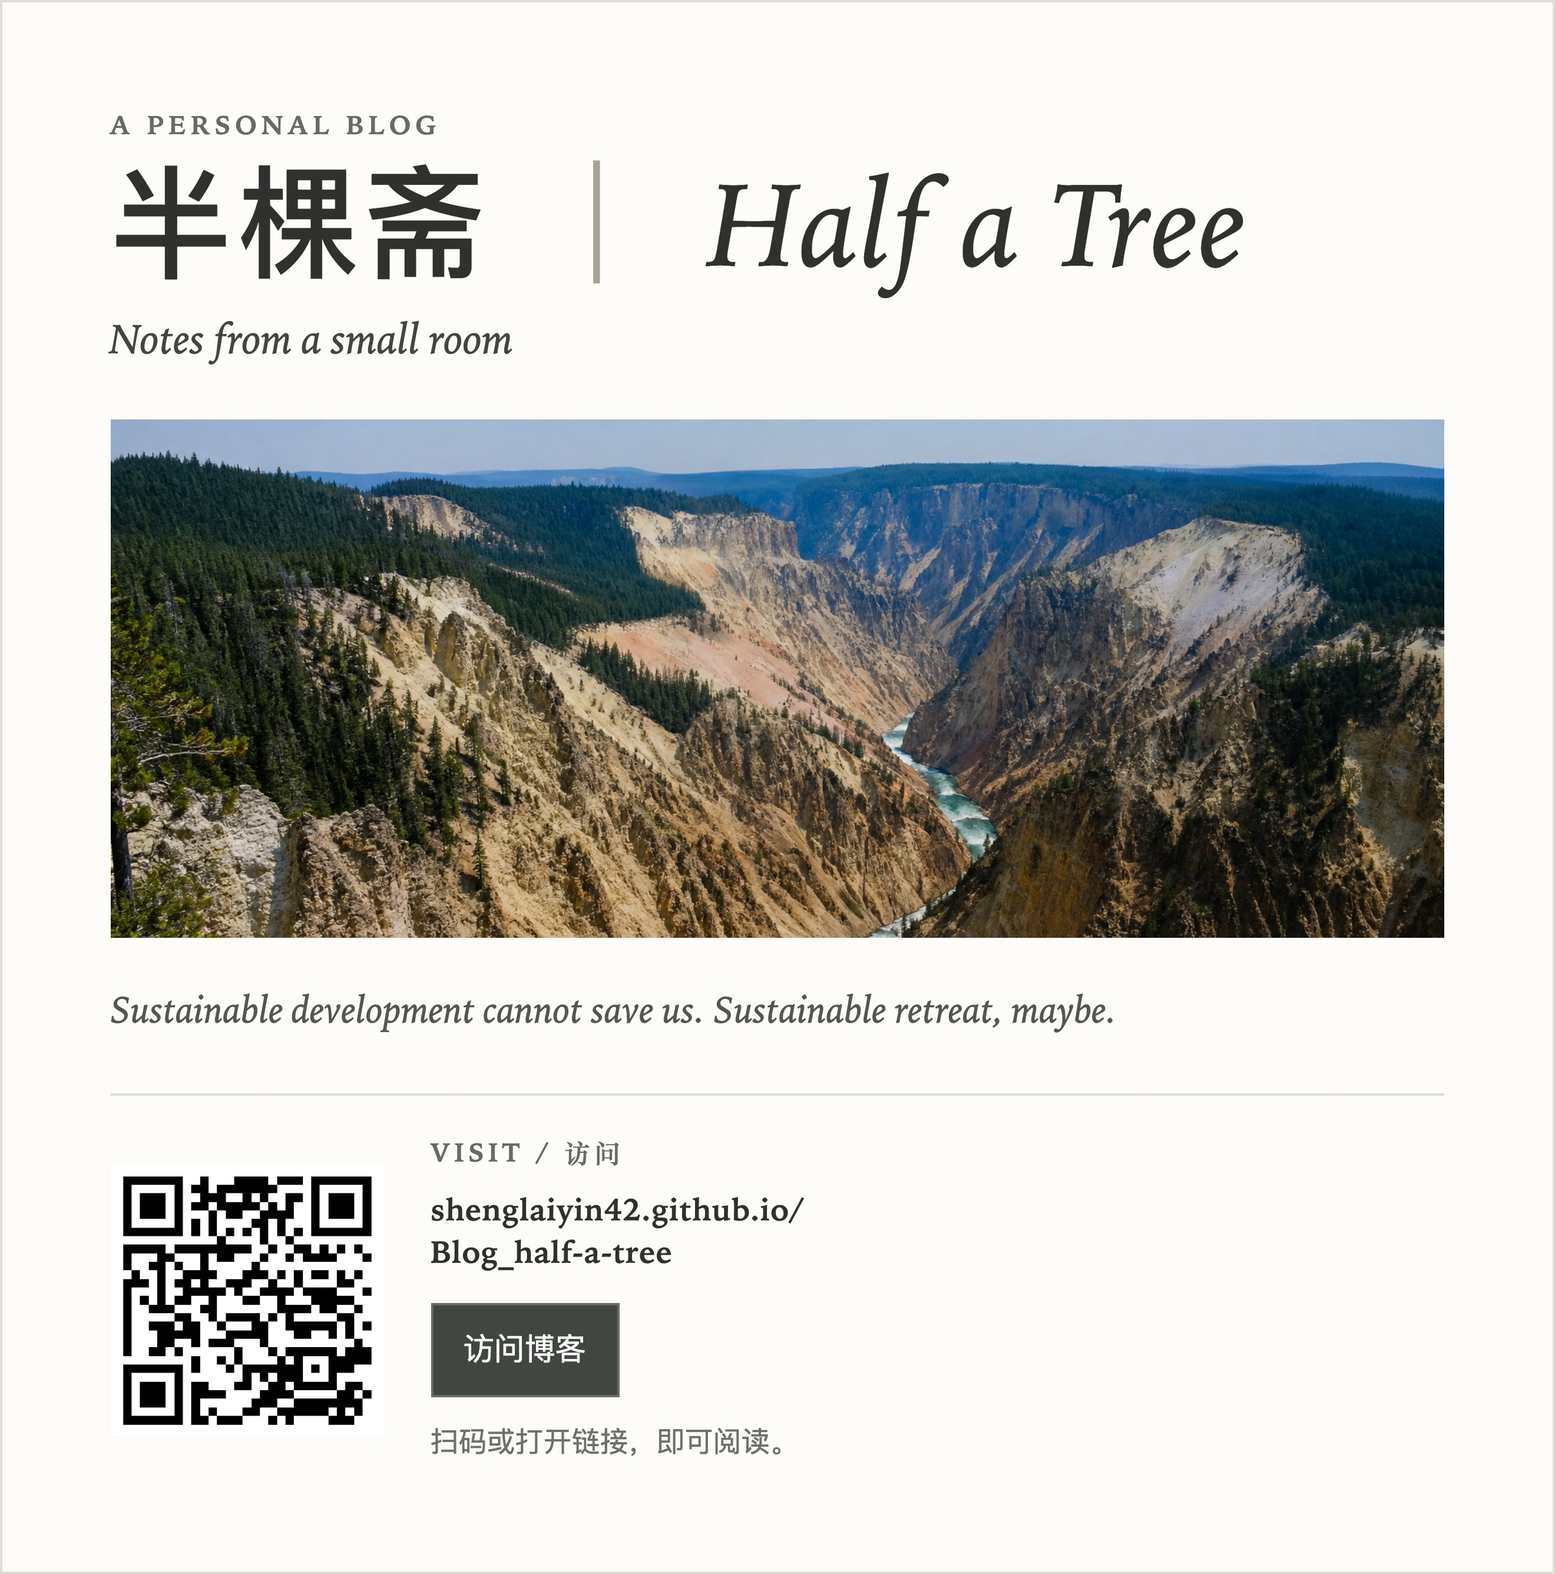
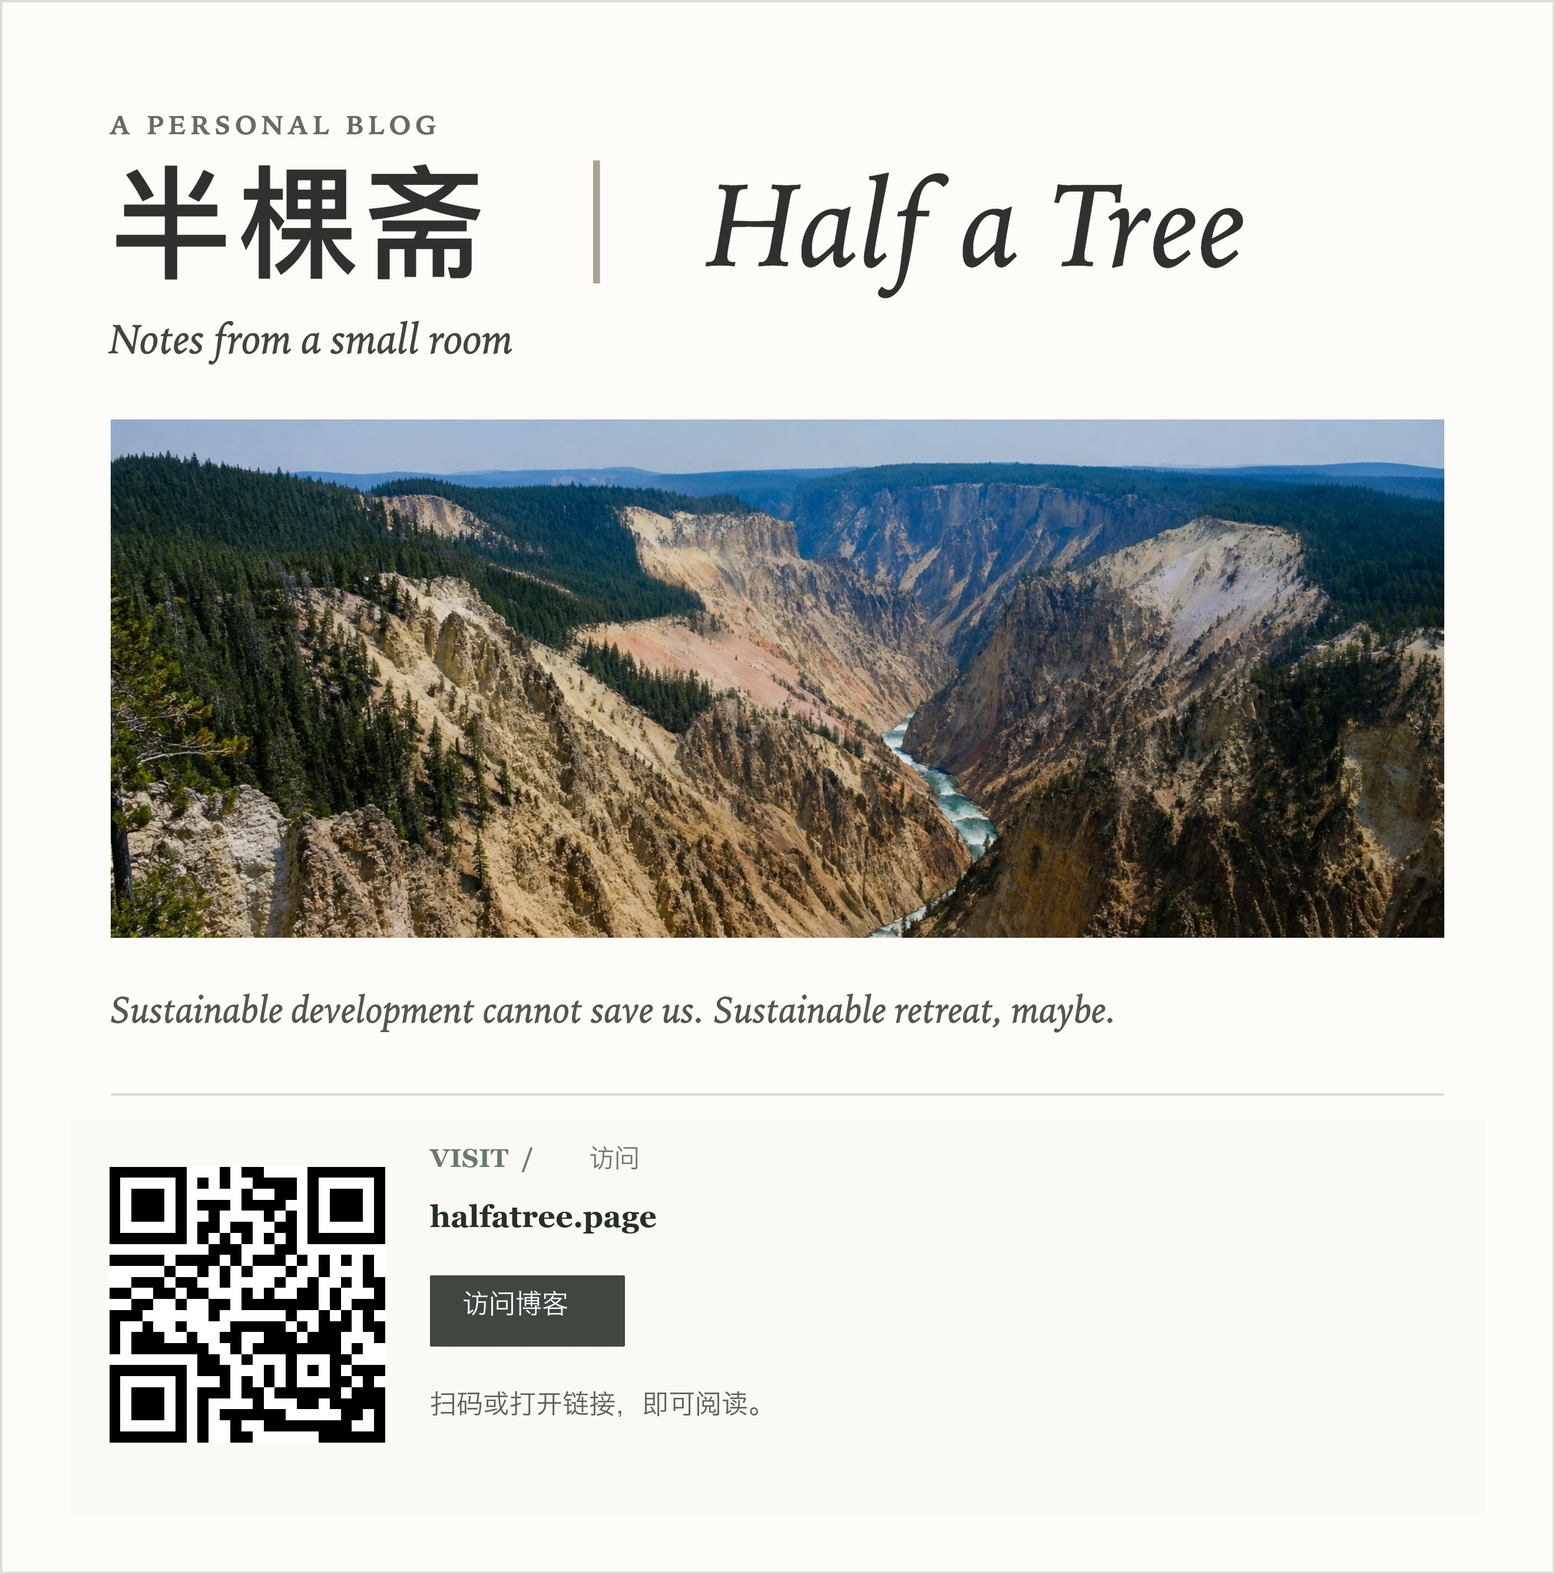
切换博客公开地址至 halfatree.page

Changed region(s): [[0.0621, 0.7144, 0.2485, 0.9319], [0.2795, 0.7144, 0.497, 0.9319]]

diff --git a/articles/a-suffocating-self-exoneration.html b/articles/a-suffocating-self-exoneration.html
@@ -9,17 +9,17 @@
     <meta property="og:site_name" content="半棵斋｜Half a Tree" />
     <meta property="og:title" content="一场让人愤怒且窒息的“自我洗白”-《万物只是自然生长》｜半棵斋" />
     <meta property="og:description" content="读李翊云的《万物只是自然生长》，我的心情从一开始的不安，到最后变成了极度的反感和恶心。作为一个母亲，两个孩子相继选择相同的方式自杀，这难道不是家庭出了大问题吗？可身为作家的母亲在书里仅仅反思了她自己的" />
-    <meta property="og:url" content="https://shenglaiyin42.github.io/Blog_half-a-tree/articles/a-suffocating-self-exoneration.html" />
-    <meta property="og:image" content="https://shenglaiyin42.github.io/Blog_half-a-tree/public/media/share/a-suffocating-self-exoneration.jpg" />
+    <meta property="og:url" content="https://halfatree.page/articles/a-suffocating-self-exoneration.html" />
+    <meta property="og:image" content="https://halfatree.page/public/media/share/a-suffocating-self-exoneration.jpg?v=halfatree-page-v1" />
     <meta property="og:image:type" content="image/jpeg" />
     <meta property="og:image:width" content="1200" />
     <meta property="og:image:height" content="630" />
     <meta name="twitter:card" content="summary_large_image" />
     <meta name="twitter:title" content="一场让人愤怒且窒息的“自我洗白”-《万物只是自然生长》｜半棵斋" />
     <meta name="twitter:description" content="读李翊云的《万物只是自然生长》，我的心情从一开始的不安，到最后变成了极度的反感和恶心。作为一个母亲，两个孩子相继选择相同的方式自杀，这难道不是家庭出了大问题吗？可身为作家的母亲在书里仅仅反思了她自己的" />
-    <meta name="twitter:image" content="https://shenglaiyin42.github.io/Blog_half-a-tree/public/media/share/a-suffocating-self-exoneration.jpg" />
+    <meta name="twitter:image" content="https://halfatree.page/public/media/share/a-suffocating-self-exoneration.jpg?v=halfatree-page-v1" />
     <!-- 分享卡片元数据结束 -->
-    <link rel="canonical" href="https://shenglaiyin42.github.io/Blog_half-a-tree/articles/a-suffocating-self-exoneration.html" />
+    <link rel="canonical" href="https://halfatree.page/articles/a-suffocating-self-exoneration.html" />
     <title>一场让人愤怒且窒息的“自我洗白”-《万物只是自然生长》｜半棵斋</title>
     <link rel="alternate" type="application/rss+xml" title="半棵斋 RSS" href="../rss.xml" />
     <link rel="stylesheet" href="../styles.css?v=moments-poster-v2" />
@@ -29,25 +29,25 @@
       <div class="hero" role="img" aria-label="峡谷、远山与河流"></div>
       <div class="identity wrap">
         <p class="eyebrow">A personal blog</p>
-        <h1><a class="site-title" href="https://shenglaiyin42.github.io/Blog_half-a-tree/" aria-label="返回首页：半棵斋 Half a Tree">半棵斋 <span>｜</span> <em>Half a Tree</em></a></h1>
+        <h1><a class="site-title" href="https://halfatree.page/" aria-label="返回首页：半棵斋 Half a Tree">半棵斋 <span>｜</span> <em>Half a Tree</em></a></h1>
         <p class="motto">Sustainable development cannot save us. Sustainable retreat, maybe.</p>
       </div>
       <div class="nav-shell">
         <nav class="wrap site-nav" aria-label="主导航">
-          <a class="rss-link" href="https://shenglaiyin42.github.io/Blog_half-a-tree/rss.xml" title="订阅 RSS" aria-label="订阅 RSS">
+          <a class="rss-link" href="https://halfatree.page/rss.xml" title="订阅 RSS" aria-label="订阅 RSS">
             <svg viewBox="0 0 24 24" aria-hidden="true"><circle cx="6" cy="18" r="2.1"></circle><path d="M4 10.1a9.9 9.9 0 0 1 9.9 9.9M4 4a16 16 0 0 1 16 16"></path></svg>
             <span>RSS / 订阅</span>
           </a>
           <div class="nav-pages">
-            <a class="nav-link" href="https://shenglaiyin42.github.io/Blog_half-a-tree/?section=essays">文章 <span>/ Essays</span></a>
-            <a class="nav-link is-active" href="https://shenglaiyin42.github.io/Blog_half-a-tree/?section=arts">艺文 <span>/ Arts &amp; Culture</span></a>
+            <a class="nav-link" href="https://halfatree.page/?section=essays">文章 <span>/ Essays</span></a>
+            <a class="nav-link is-active" href="https://halfatree.page/?section=arts">艺文 <span>/ Arts &amp; Culture</span></a>
           </div>
         </nav>
       </div>
     </header>
 
     <main class="article-shell">
-      <a class="article-back" href="https://shenglaiyin42.github.io/Blog_half-a-tree/?section=arts">← 返回艺文</a>
+      <a class="article-back" href="https://halfatree.page/?section=arts">← 返回艺文</a>
       <article>
         <header class="article-header">
           <p class="article-meta"><span class="post-section">艺文</span><time datetime="2026-08-15">2026年8月15日</time></p>
@@ -73,6 +73,6 @@
       <p>半棵斋｜Half a Tree</p>
       <p>Notes from a small room</p>
     </footer>
-    <script src="../article-share.js?v=moments-poster-v4"></script>
+    <script src="../article-share.js?v=moments-poster-v5"></script>
   </body>
 </html>

diff --git a/articles/heroes-and-the-decline-of-civilization.html b/articles/heroes-and-the-decline-of-civilization.html
@@ -9,17 +9,17 @@
     <meta property="og:site_name" content="半棵斋｜Half a Tree" />
     <meta property="og:title" content="所谓英雄，或许正是文明衰落的开始-《奥德赛》｜半棵斋" />
     <meta property="og:description" content="诺兰的《奥德赛》不只是一个英雄历经艰险、终于回家的故事。它更像是一个关于文明衰落的寓言：当人与人之间最基本的原则被不断打破，暴力又以英雄之名被传颂，毁灭最终也会被下一代继承。" />
-    <meta property="og:url" content="https://shenglaiyin42.github.io/Blog_half-a-tree/articles/heroes-and-the-decline-of-civilization.html" />
-    <meta property="og:image" content="https://shenglaiyin42.github.io/Blog_half-a-tree/public/media/share/heroes-and-the-decline-of-civilization.jpg" />
+    <meta property="og:url" content="https://halfatree.page/articles/heroes-and-the-decline-of-civilization.html" />
+    <meta property="og:image" content="https://halfatree.page/public/media/share/heroes-and-the-decline-of-civilization.jpg?v=halfatree-page-v1" />
     <meta property="og:image:type" content="image/jpeg" />
     <meta property="og:image:width" content="1200" />
     <meta property="og:image:height" content="630" />
     <meta name="twitter:card" content="summary_large_image" />
     <meta name="twitter:title" content="所谓英雄，或许正是文明衰落的开始-《奥德赛》｜半棵斋" />
     <meta name="twitter:description" content="诺兰的《奥德赛》不只是一个英雄历经艰险、终于回家的故事。它更像是一个关于文明衰落的寓言：当人与人之间最基本的原则被不断打破，暴力又以英雄之名被传颂，毁灭最终也会被下一代继承。" />
-    <meta name="twitter:image" content="https://shenglaiyin42.github.io/Blog_half-a-tree/public/media/share/heroes-and-the-decline-of-civilization.jpg" />
+    <meta name="twitter:image" content="https://halfatree.page/public/media/share/heroes-and-the-decline-of-civilization.jpg?v=halfatree-page-v1" />
     <!-- 分享卡片元数据结束 -->
-    <link rel="canonical" href="https://shenglaiyin42.github.io/Blog_half-a-tree/articles/heroes-and-the-decline-of-civilization.html" />
+    <link rel="canonical" href="https://halfatree.page/articles/heroes-and-the-decline-of-civilization.html" />
     <title>所谓英雄，或许正是文明衰落的开始-《奥德赛》｜半棵斋</title>
     <link rel="alternate" type="application/rss+xml" title="半棵斋 RSS" href="../rss.xml" />
     <link rel="stylesheet" href="../styles.css?v=moments-poster-v2" />
@@ -29,22 +29,22 @@
       <div class="hero" role="img" aria-label="峡谷、远山与河流"></div>
       <div class="identity wrap">
         <p class="eyebrow">A personal blog</p>
-        <h1><a class="site-title" href="https://shenglaiyin42.github.io/Blog_half-a-tree/" aria-label="返回首页：半棵斋 Half a Tree">半棵斋 <span>｜</span> <em>Half a Tree</em></a></h1>
+        <h1><a class="site-title" href="https://halfatree.page/" aria-label="返回首页：半棵斋 Half a Tree">半棵斋 <span>｜</span> <em>Half a Tree</em></a></h1>
         <p class="motto">Sustainable development cannot save us. Sustainable retreat, maybe.</p>
       </div>
       <div class="nav-shell">
         <nav class="wrap site-nav" aria-label="主导航">
-          <a class="rss-link" href="https://shenglaiyin42.github.io/Blog_half-a-tree/rss.xml" title="订阅 RSS" aria-label="订阅 RSS"><span>RSS / 订阅</span></a>
+          <a class="rss-link" href="https://halfatree.page/rss.xml" title="订阅 RSS" aria-label="订阅 RSS"><span>RSS / 订阅</span></a>
           <div class="nav-pages">
-            <a class="nav-link" href="https://shenglaiyin42.github.io/Blog_half-a-tree/?section=essays">文章 <span>/ Essays</span></a>
-            <a class="nav-link" href="https://shenglaiyin42.github.io/Blog_half-a-tree/?section=arts">艺文 <span>/ Arts &amp; Culture</span></a>
+            <a class="nav-link" href="https://halfatree.page/?section=essays">文章 <span>/ Essays</span></a>
+            <a class="nav-link" href="https://halfatree.page/?section=arts">艺文 <span>/ Arts &amp; Culture</span></a>
           </div>
         </nav>
       </div>
     </header>
 
     <main class="article-shell">
-      <a class="article-back" href="https://shenglaiyin42.github.io/Blog_half-a-tree/?section=arts">← 返回艺文</a>
+      <a class="article-back" href="https://halfatree.page/?section=arts">← 返回艺文</a>
       <article>
         <header class="article-header">
           <p class="article-meta"><span class="post-section">艺文</span><time datetime="2026-08-16">2026年8月16日</time></p>
@@ -87,6 +87,6 @@
       <p>半棵斋｜Half a Tree</p>
       <p>Notes from a small room</p>
     </footer>
-    <script src="../article-share.js?v=moments-poster-v4"></script>
+    <script src="../article-share.js?v=moments-poster-v5"></script>
   </body>
 </html>

diff --git a/templates/article-page.html b/templates/article-page.html
@@ -15,22 +15,22 @@
       <div class="hero" role="img" aria-label="峡谷、远山与河流"></div>
       <div class="identity wrap">
         <p class="eyebrow">A personal blog</p>
-        <h1><a class="site-title" href="https://shenglaiyin42.github.io/Blog_half-a-tree/" aria-label="返回首页：半棵斋 Half a Tree">半棵斋 <span>｜</span> <em>Half a Tree</em></a></h1>
+        <h1><a class="site-title" href="https://halfatree.page/" aria-label="返回首页：半棵斋 Half a Tree">半棵斋 <span>｜</span> <em>Half a Tree</em></a></h1>
         <p class="motto">Sustainable development cannot save us. Sustainable retreat, maybe.</p>
       </div>
       <div class="nav-shell">
         <nav class="wrap site-nav" aria-label="主导航">
-          <a class="rss-link" href="https://shenglaiyin42.github.io/Blog_half-a-tree/rss.xml" title="订阅 RSS" aria-label="订阅 RSS"><span>RSS / 订阅</span></a>
+          <a class="rss-link" href="https://halfatree.page/rss.xml" title="订阅 RSS" aria-label="订阅 RSS"><span>RSS / 订阅</span></a>
           <div class="nav-pages">
-            <a class="nav-link" href="https://shenglaiyin42.github.io/Blog_half-a-tree/?section=essays">文章 <span>/ Essays</span></a>
-            <a class="nav-link" href="https://shenglaiyin42.github.io/Blog_half-a-tree/?section=arts">艺文 <span>/ Arts &amp; Culture</span></a>
+            <a class="nav-link" href="https://halfatree.page/?section=essays">文章 <span>/ Essays</span></a>
+            <a class="nav-link" href="https://halfatree.page/?section=arts">艺文 <span>/ Arts &amp; Culture</span></a>
           </div>
         </nav>
       </div>
     </header>
 
     <main class="article-shell">
-      <a class="article-back" href="https://shenglaiyin42.github.io/Blog_half-a-tree/?section={{SECTION_ID}}">← 返回{{SECTION_NAME}}</a>
+      <a class="article-back" href="https://halfatree.page/?section={{SECTION_ID}}">← 返回{{SECTION_NAME}}</a>
       <article>
         <header class="article-header">
           <p class="article-meta"><span class="post-section">{{SECTION_NAME}}</span><time datetime="{{DATE_ISO}}">{{DATE_DISPLAY}}</time></p>
@@ -47,6 +47,6 @@
       <p>半棵斋｜Half a Tree</p>
       <p>Notes from a small room</p>
     </footer>
-    <script src="../article-share.js?v=moments-poster-v4"></script>
+    <script src="../article-share.js?v=moments-poster-v5"></script>
   </body>
 </html>

diff --git a/card/index.html b/card/index.html
@@ -7,8 +7,8 @@
     <meta property="og:title" content="半棵斋｜Half a Tree" />
     <meta property="og:description" content="Notes from a small room" />
     <meta property="og:type" content="website" />
-    <meta property="og:url" content="https://shenglaiyin42.github.io/Blog_half-a-tree/card/" />
-    <meta property="og:image" content="https://shenglaiyin42.github.io/Blog_half-a-tree/public/media/half-a-tree-canyon-hero.png" />
+    <meta property="og:url" content="https://halfatree.page/card/" />
+    <meta property="og:image" content="https://halfatree.page/public/media/half-a-tree-canyon-hero.png" />
     <title>半棵斋｜网站名片</title>
     <link rel="stylesheet" href="../styles.css" />
   </head>
@@ -21,11 +21,11 @@
         <div class="share-card-landscape" role="img" aria-label="峡谷、远山与河流"></div>
         <p class="share-card-motto">Sustainable development cannot save us. Sustainable retreat, maybe.</p>
         <div class="share-card-access">
-          <img class="share-qr" src="https://api.qrserver.com/v1/create-qr-code/?size=360x360&amp;format=png&amp;data=https%3A%2F%2Fshenglaiyin42.github.io%2FBlog_half-a-tree%2F" alt="扫描二维码访问半棵斋" />
+          <img class="share-qr" src="https://api.qrserver.com/v1/create-qr-code/?size=360x360&amp;format=png&amp;data=https%3A%2F%2Fhalfatree.page%2F" alt="扫描二维码访问半棵斋" />
           <div>
             <p class="share-label">VISIT / 访问</p>
-            <p class="share-card-url">shenglaiyin42.github.io/<br />Blog_half-a-tree</p>
-            <a class="share-card-button" href="https://shenglaiyin42.github.io/Blog_half-a-tree/">访问博客</a>
+            <p class="share-card-url">halfatree.page</p>
+            <a class="share-card-button" href="https://halfatree.page/">访问博客</a>
             <p class="share-card-hint">扫码或打开链接，即可阅读。</p>
           </div>
         </div>

diff --git a/index.html b/index.html
@@ -17,7 +17,7 @@
 
       <div class="identity wrap">
         <p class="eyebrow">A personal blog</p>
-        <h1><a class="site-title" href="https://shenglaiyin42.github.io/Blog_half-a-tree/" aria-label="返回首页：半棵斋 Half a Tree">半棵斋 <span>｜</span> <em>Half a Tree</em></a></h1>
+        <h1><a class="site-title" href="https://halfatree.page/" aria-label="返回首页：半棵斋 Half a Tree">半棵斋 <span>｜</span> <em>Half a Tree</em></a></h1>
         <p class="motto">Sustainable development cannot save us. Sustainable retreat, maybe.</p>
       </div>
 
@@ -55,7 +55,7 @@
 
         <section class="sidebar-section site-card-section" aria-label="分享网站名片">
           <button class="site-card-download" id="site-card-share" type="button" aria-describedby="site-card-share-status">
-            <img src="https://api.qrserver.com/v1/create-qr-code/?size=180x180&amp;format=png&amp;data=https%3A%2F%2Fshenglaiyin42.github.io%2FBlog_half-a-tree%2F" alt="扫描二维码访问半棵斋" />
+            <img src="https://api.qrserver.com/v1/create-qr-code/?size=180x180&amp;format=png&amp;data=https%3A%2F%2Fhalfatree.page%2F" alt="扫描二维码访问半棵斋" />
             <span class="site-card-copy">
               <strong>网站名片</strong>
               <em>Site Card</em>
@@ -83,6 +83,6 @@
     </footer>
 
     <script src="./app.js?v=article-file-route-v1"></script>
-    <script src="./site-card-share.js?v=site-card-share-v1"></script>
+    <script src="./site-card-share.js?v=site-card-share-v2"></script>
   </body>
 </html>

diff --git a/article-share.js b/article-share.js
@@ -7,7 +7,7 @@
   if (!article || !articleBody || !title || document.querySelector(".article-share")) return;
 
   const canonicalUrl = document.querySelector('link[rel="canonical"]')?.href;
-  const publicSiteBase = "https://shenglaiyin42.github.io/Blog_half-a-tree/";
+  const publicSiteBase = "https://halfatree.page/";
   const localArticlePath = window.location.pathname.split("/articles/")[1];
   const pageUrl = canonicalUrl || (localArticlePath
     ? new URL(`articles/${localArticlePath}`, publicSiteBase).href
@@ -19,7 +19,7 @@
   blueskyUrl.searchParams.set("text", shareText);
   const articleSlug = new URL(pageUrl).pathname.split("/articles/").pop()?.replace(/\.html$/, "");
   const posterUrl = articleSlug
-    ? new URL(`public/media/posters/${articleSlug}.jpg?v=poster-layout-v2`, publicSiteBase).href
+    ? new URL(`public/media/posters/${articleSlug}.jpg?v=halfatree-page-v1`, publicSiteBase).href
     : null;
 
   const sharePanel = document.createElement("section");

diff --git a/site-card-share.js b/site-card-share.js
@@ -1,7 +1,7 @@
 (() => {
   const button = document.querySelector("#site-card-share");
   const status = document.querySelector("#site-card-share-status");
-  const cardUrl = new URL("./card/half-a-tree-site-card.jpg?v=20260816-300dpi", window.location.href);
+  const cardUrl = new URL("./card/half-a-tree-site-card.jpg?v=halfatree-page-v1", window.location.href);
   let cardFilePromise;
 
   const setStatus = (message) => {

diff --git a/scripts/publish_post.py b/scripts/publish_post.py
@@ -15,7 +15,8 @@ from PIL import Image, ImageDraw, ImageFont, ImageOps
 
 
 ROOT = Path(__file__).resolve().parents[1]
-SITE_URL = "https://shenglaiyin42.github.io/Blog_half-a-tree/"
+SITE_URL = "https://halfatree.page/"
+PUBLIC_ASSET_VERSION = "halfatree-page-v1"
 SECTION_NAMES = {"essays": "文章", "arts": "艺文"}
 SHARE_IMAGE_DIR = ROOT / "public" / "media" / "share"
 SHARE_IMAGE_SIZE = (1200, 630)
@@ -98,7 +99,7 @@ def wrap_text(draw: ImageDraw.ImageDraw, text: str, font: ImageFont.ImageFont, w
 
 
 def share_image_url(metadata: dict[str, object]) -> str:
-    return f"{SITE_URL}public/media/share/{metadata['slug']}.jpg"
+    return f"{SITE_URL}public/media/share/{metadata['slug']}.jpg?v={PUBLIC_ASSET_VERSION}"
 
 
 def write_share_card(metadata: dict[str, object]) -> None:

diff --git a/README.md b/README.md
@@ -2,7 +2,7 @@
 
 这是“半棵斋｜Half a Tree”的静态个人博客仓库。
 
-正式网站：[半棵斋](https://shenglaiyin42.github.io/Blog_half-a-tree/)
+正式网站：[半棵斋](https://halfatree.page/)
 
 ## 仓库内容
 
